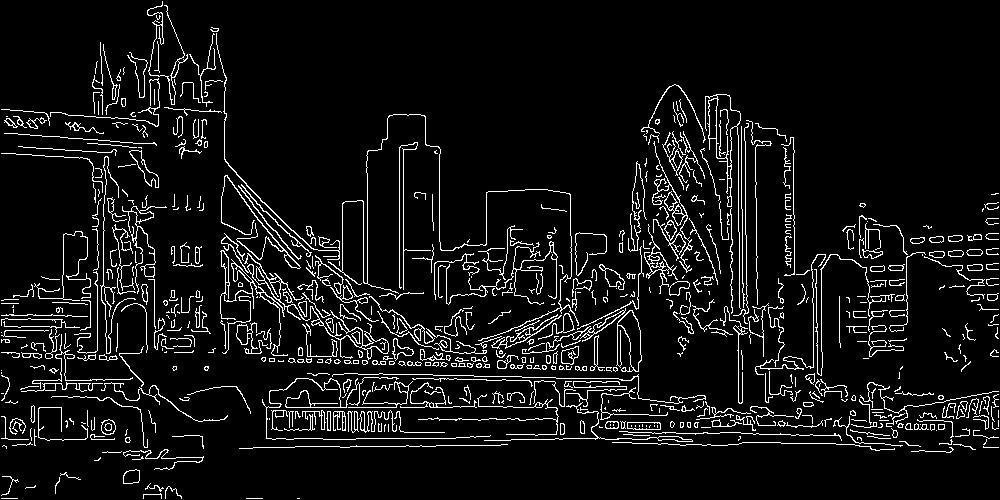
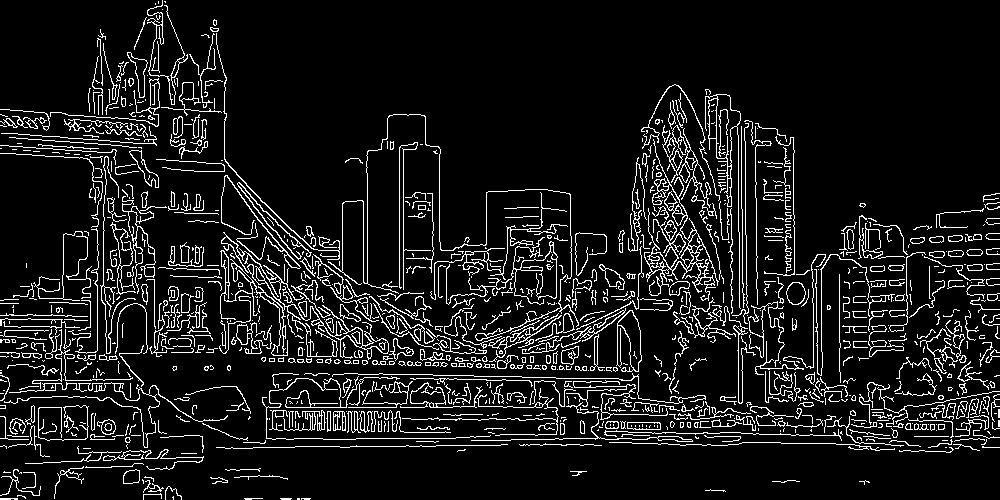
Finish fixin picture edges

diff --git a/ObjectEdgeDetectorInPixelGraphics/src/main/java/cz/mff/cuni/simekja7/objectedgedetectorinpixelgraphics/algorithms/MyCannyEdgeAlgorithm.java b/ObjectEdgeDetectorInPixelGraphics/src/main/java/cz/mff/cuni/simekja7/objectedgedetectorinpixelgraphics/algorithms/MyCannyEdgeAlgorithm.java
@@ -37,11 +37,9 @@ public class MyCannyEdgeAlgorithm extends EdgeAlgorithm {
 
         // Step 5: Apply non-maximum suppression
         double[][] suppressedImage = nonMaximumSuppression(gradientResult.magnitude, gradientResult.direction);
-
-        printDoubleArray(suppressedImage);
         
         // Step 6: Apply double thresholding
-        int[][] edgeMap = doubleThreshold(suppressedImage, 50, 150);
+        int[][] edgeMap = doubleThreshold(suppressedImage, 30, 100);
 
         // Step 7: Perform edge tracking by hysteresis
         int[][] finalEdges = edgeTrackingByHysteresis(edgeMap);
@@ -53,16 +51,6 @@ public class MyCannyEdgeAlgorithm extends EdgeAlgorithm {
         System.out.println("Canny edge detection completed. Output saved to: " + "test.jpg");
         
         return new Mat();
-    }
-    
-    // TODO: only for debuging, remove later
-    public static void printDoubleArray(double[][] array) {
-        for (int i = 0; i < array.length; i++) {
-            for (int j = 0; j < array[i].length; j++) {
-                System.out.printf("%.2f ", array[i][j]); // Print each element with 2 decimal places
-            }
-            System.out.println(); // Move to the next line after each row
-        }
     }
 
     // Load the image from file
@@ -266,6 +254,17 @@ public class MyCannyEdgeAlgorithm extends EdgeAlgorithm {
                 }
             }
         }
+        
+        // ensure edges aren't empty
+        for (int x = 0; x < width; x++) {
+            suppressed[x][0] = suppressed[x][1];
+            suppressed[x][height-1] = suppressed[x][height-2];
+        }
+        for (int y = 0; y < height; y++) {
+            suppressed[0][y] = suppressed[1][y];
+            suppressed[width-1][y] = suppressed[width-2][y];
+        }
+        
         return suppressed;
     }
 
